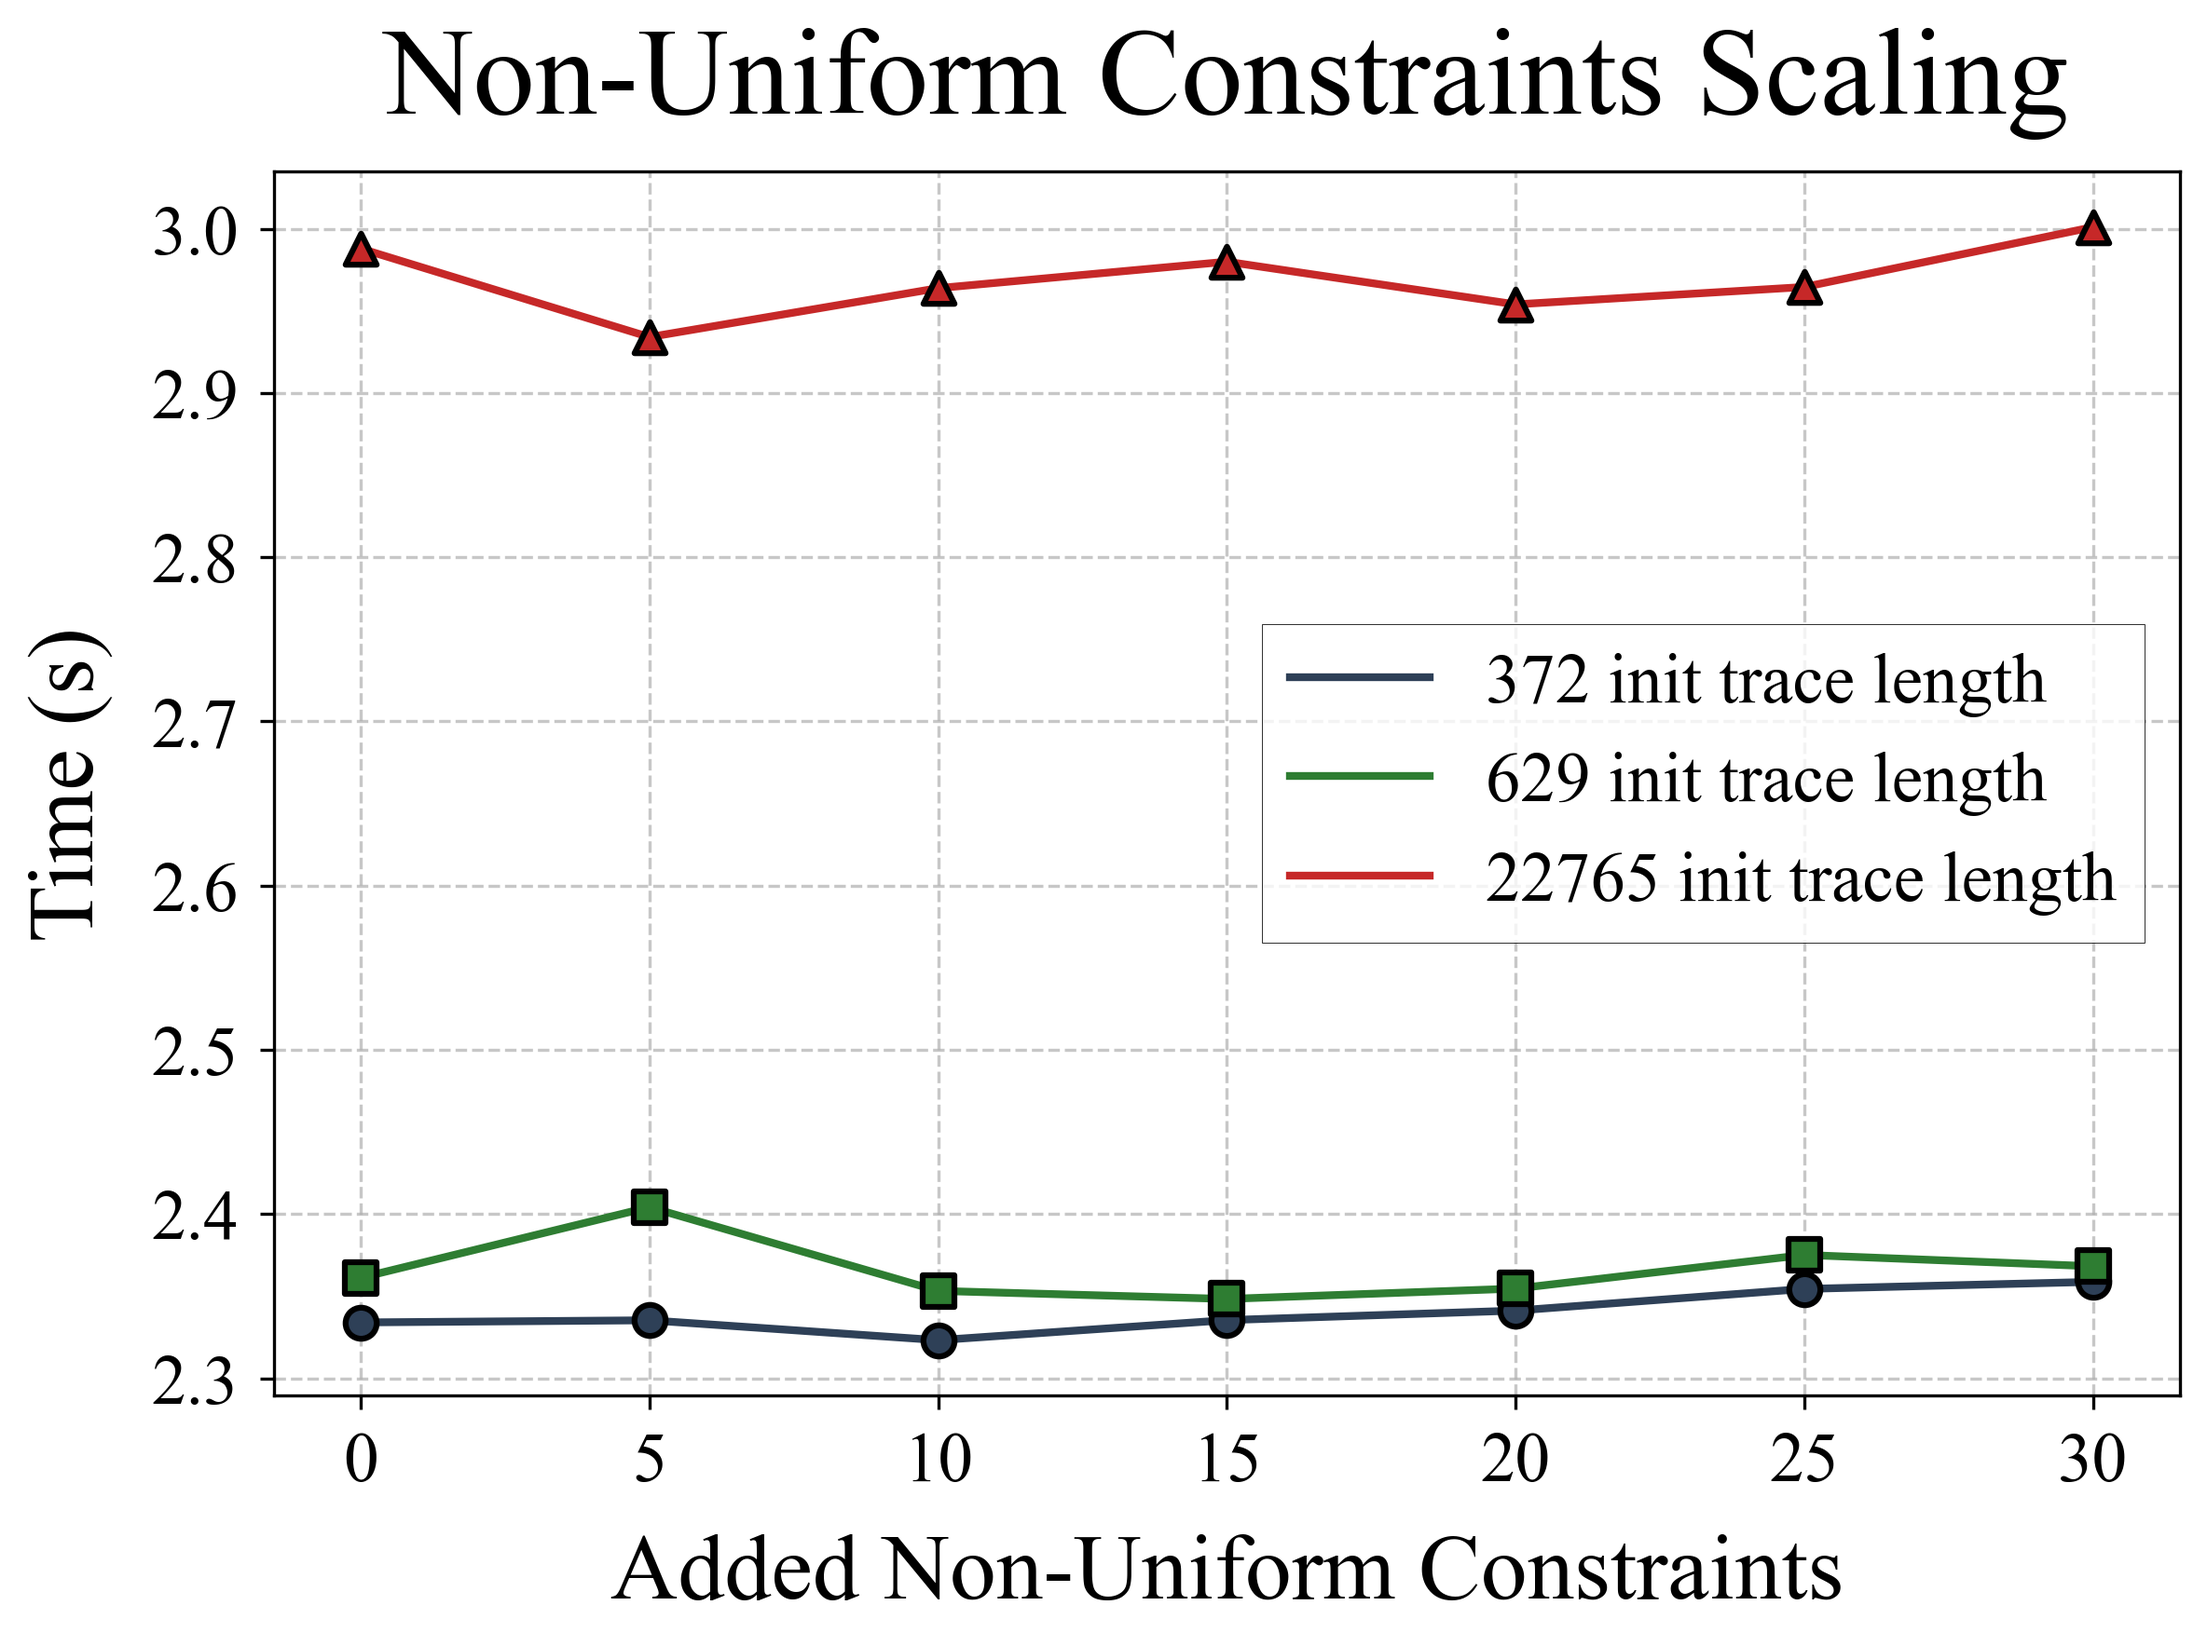
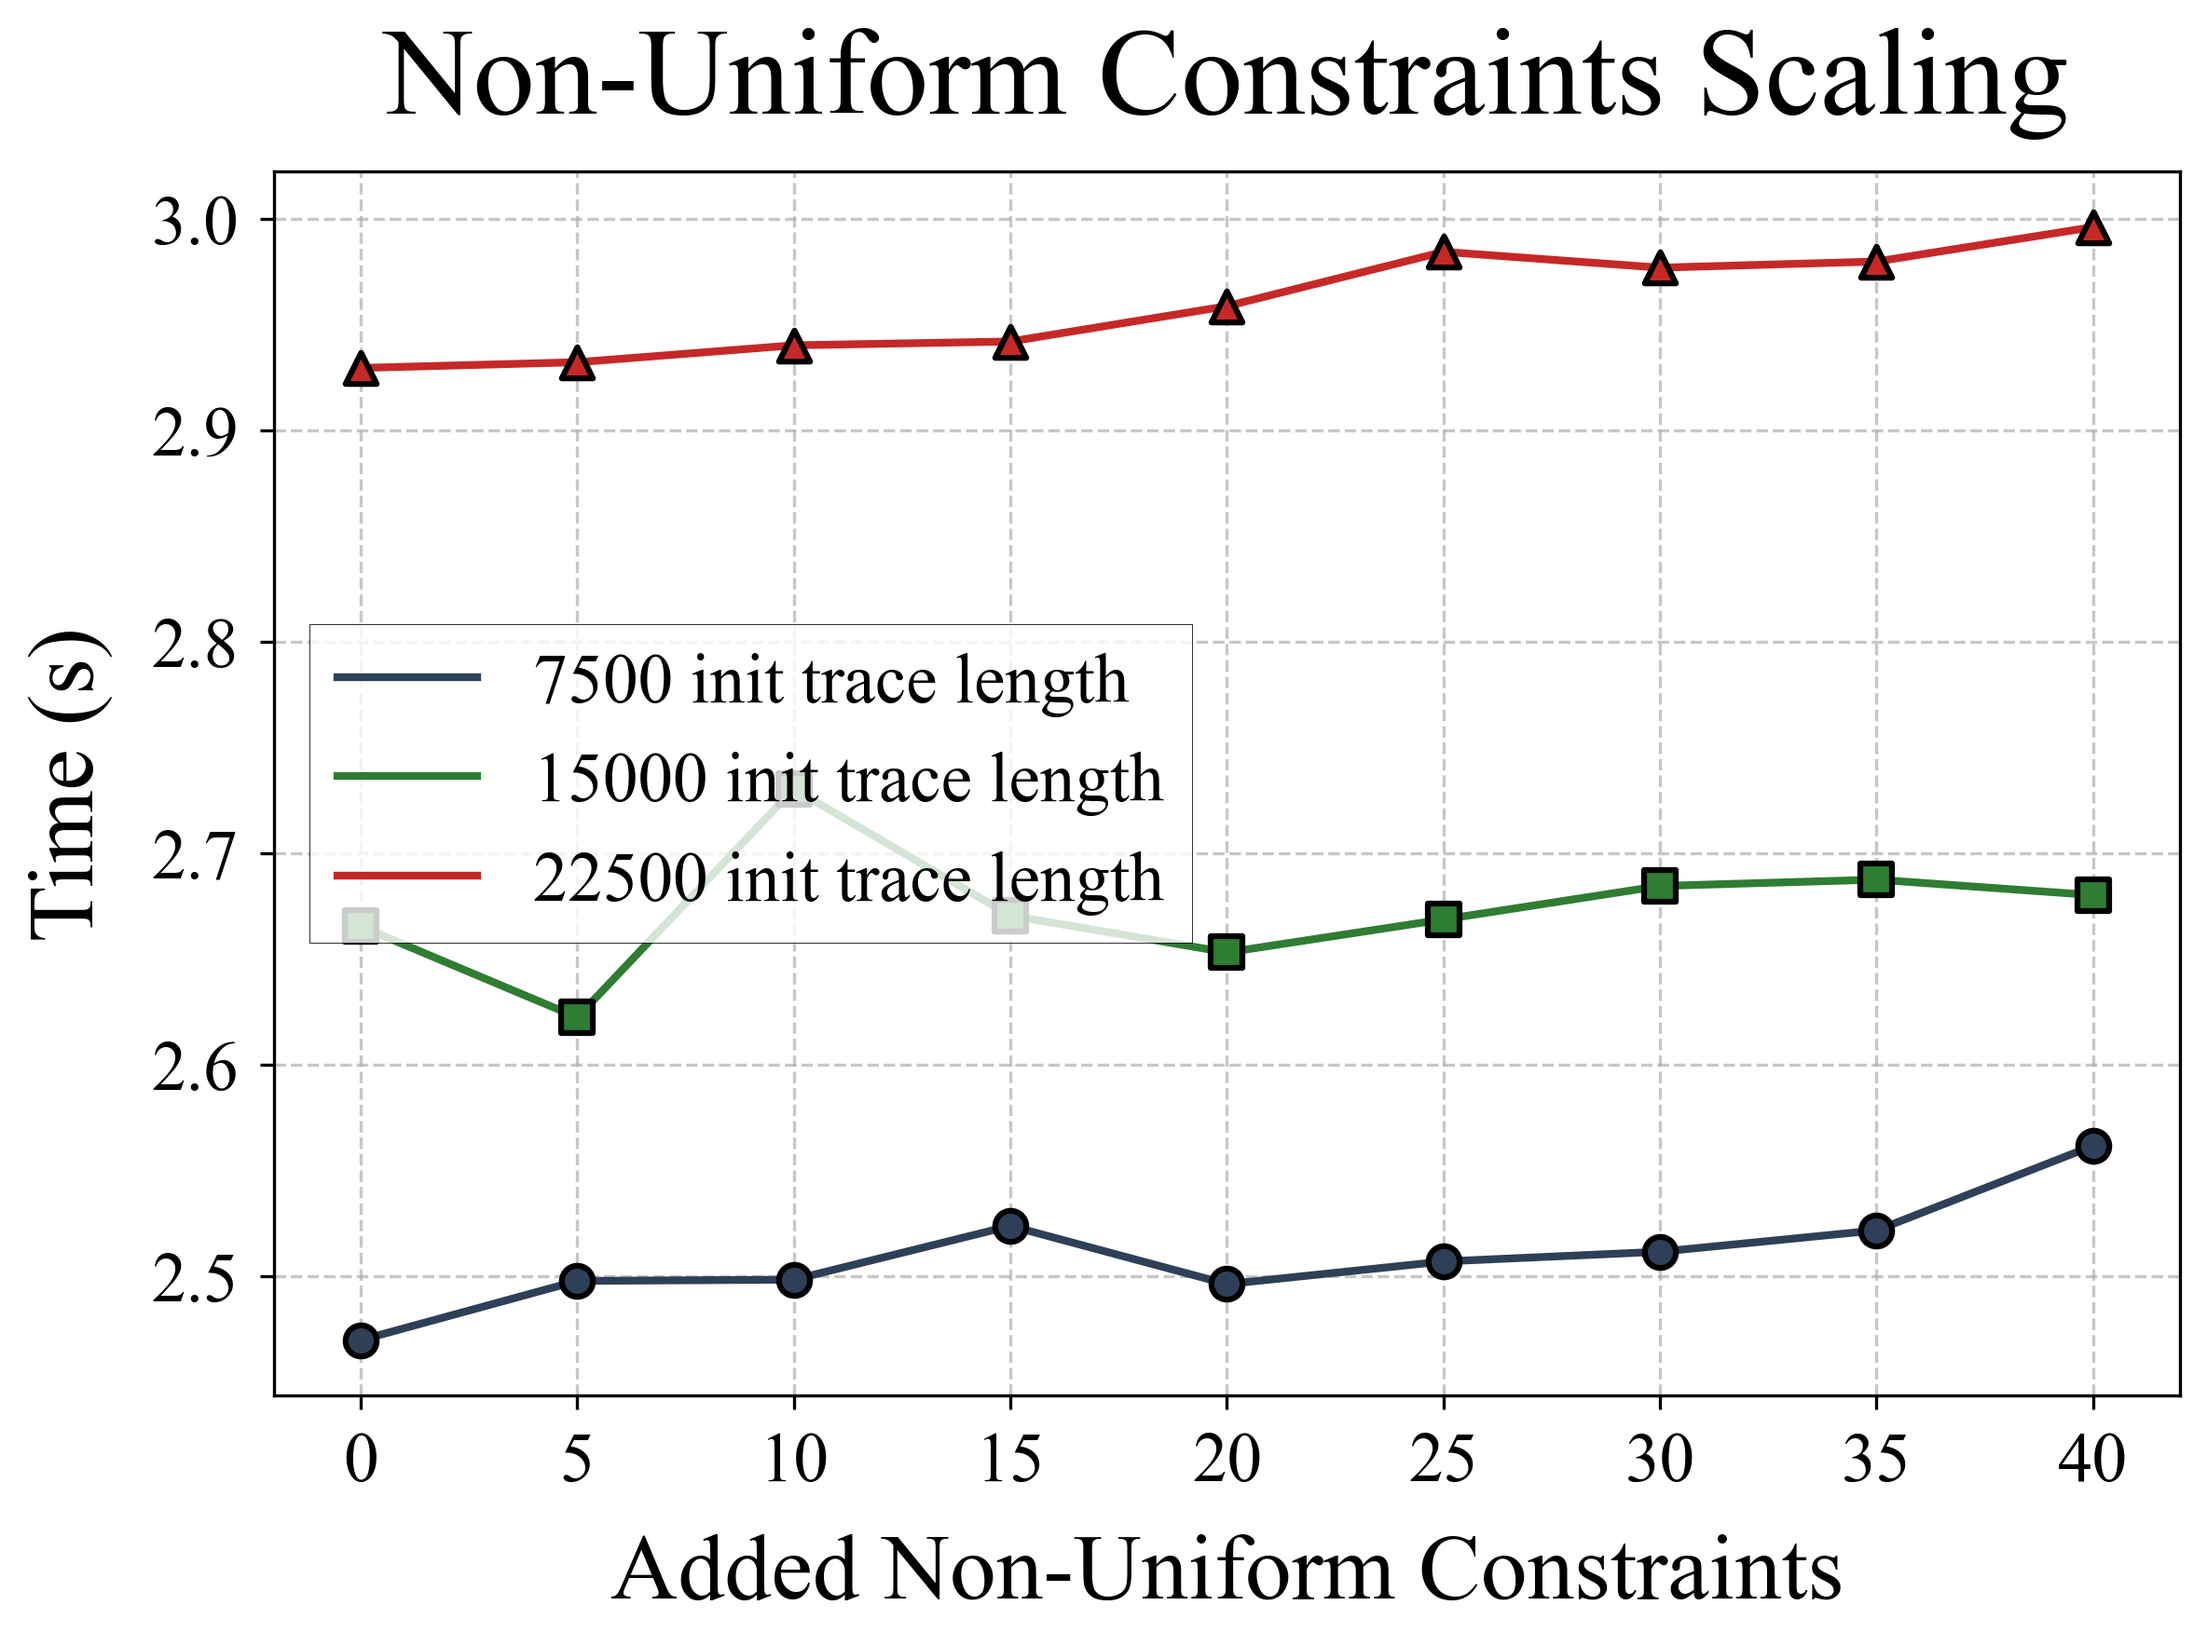
feat: updated nonuniform constraints graph

diff --git a/plot/constraints-nonuniform/plotter.py b/plot/constraints-nonuniform/plotter.py
@@ -18,7 +18,7 @@ mpl.rcParams['legend.fontsize'] = 18
 dir = os.path.dirname(os.path.abspath(__file__))
 
 # Read data from files
-data_files = ['372.txt', '629.txt', '22765.txt']
+data_files = ['7500.txt', '15000.txt', '22500.txt']
 data_series = {}
 
 for file_name in data_files:
